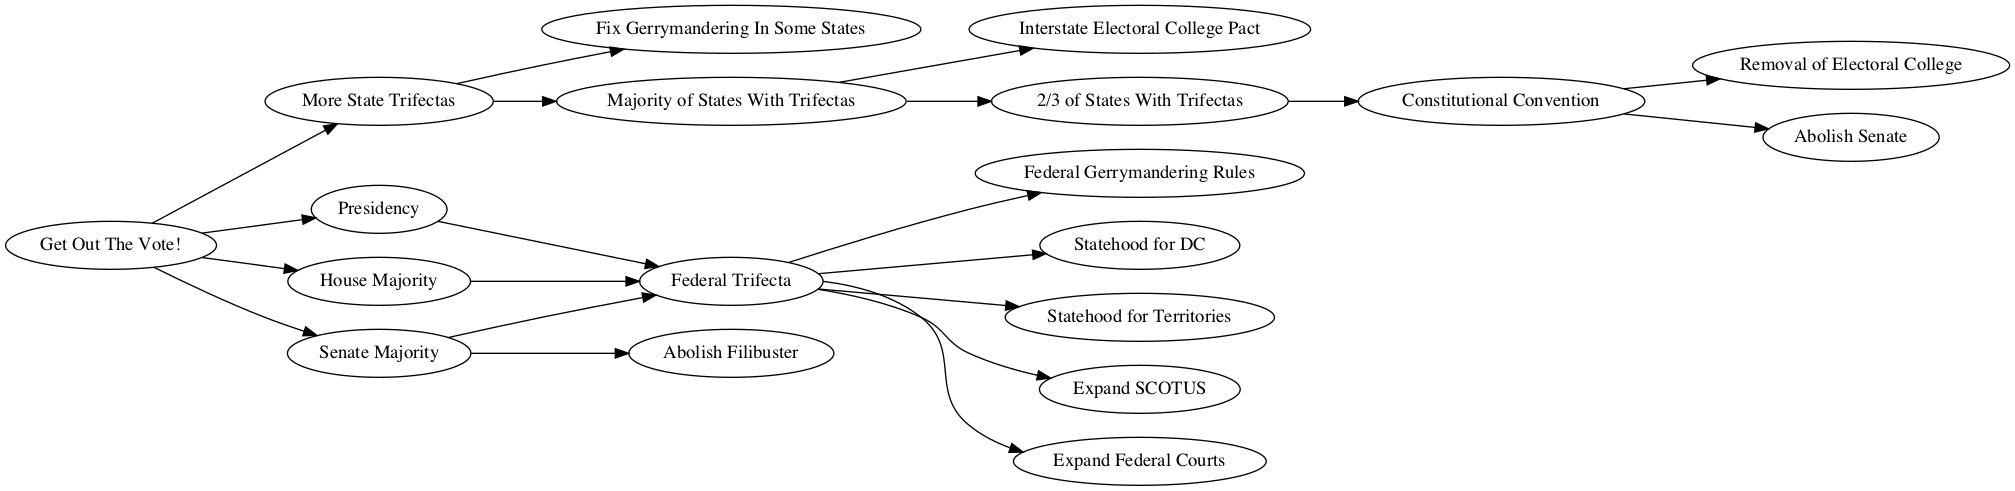
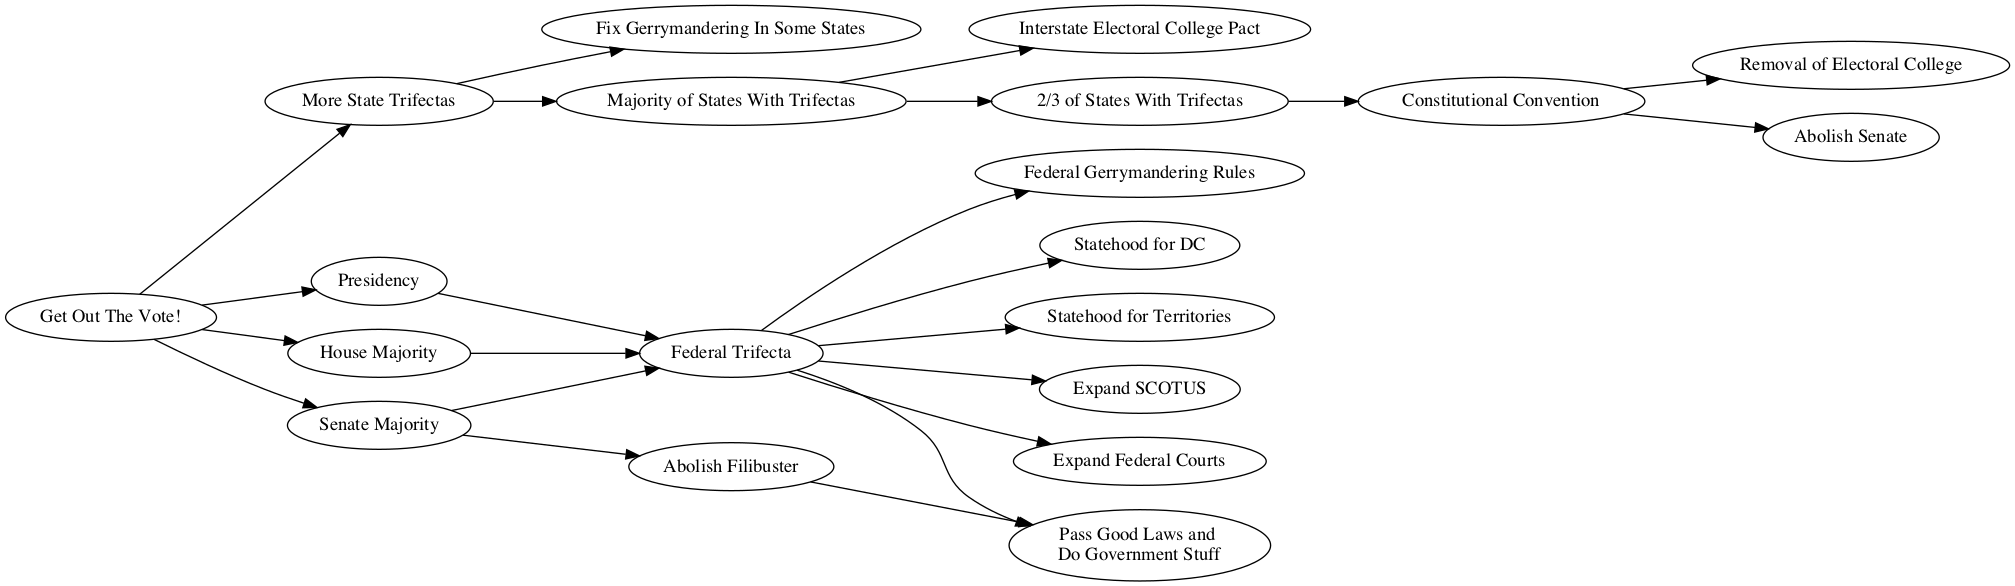
legislation

diff --git a/code.rb b/code.rb
@@ -19,6 +19,7 @@ filibuster = g.add_node( "Abolish Filibuster" )
 fed_trifecta = g.add_node( "Federal Trifecta" )
 expand_scotus = g.add_node( "Expand SCOTUS" )
 eppand_federal = g.add_node( "Expand Federal Courts" )
+legislation = g.add_node( "Pass Good Laws and \nDo Government Stuff" )
 
 # dependencies
 const_convention = g.add_node( "Constitutional Convention" )
@@ -51,6 +52,8 @@ g.add_edge(fed_trifecta, dc)
 g.add_edge(fed_trifecta, territories)
 g.add_edge(fed_trifecta, eppand_federal)
 g.add_edge(fed_trifecta, expand_scotus)
+g.add_edge(fed_trifecta, legislation)
+g.add_edge(filibuster, legislation)
 
 # Generate output image
 g.output( :png => "image.png" )
